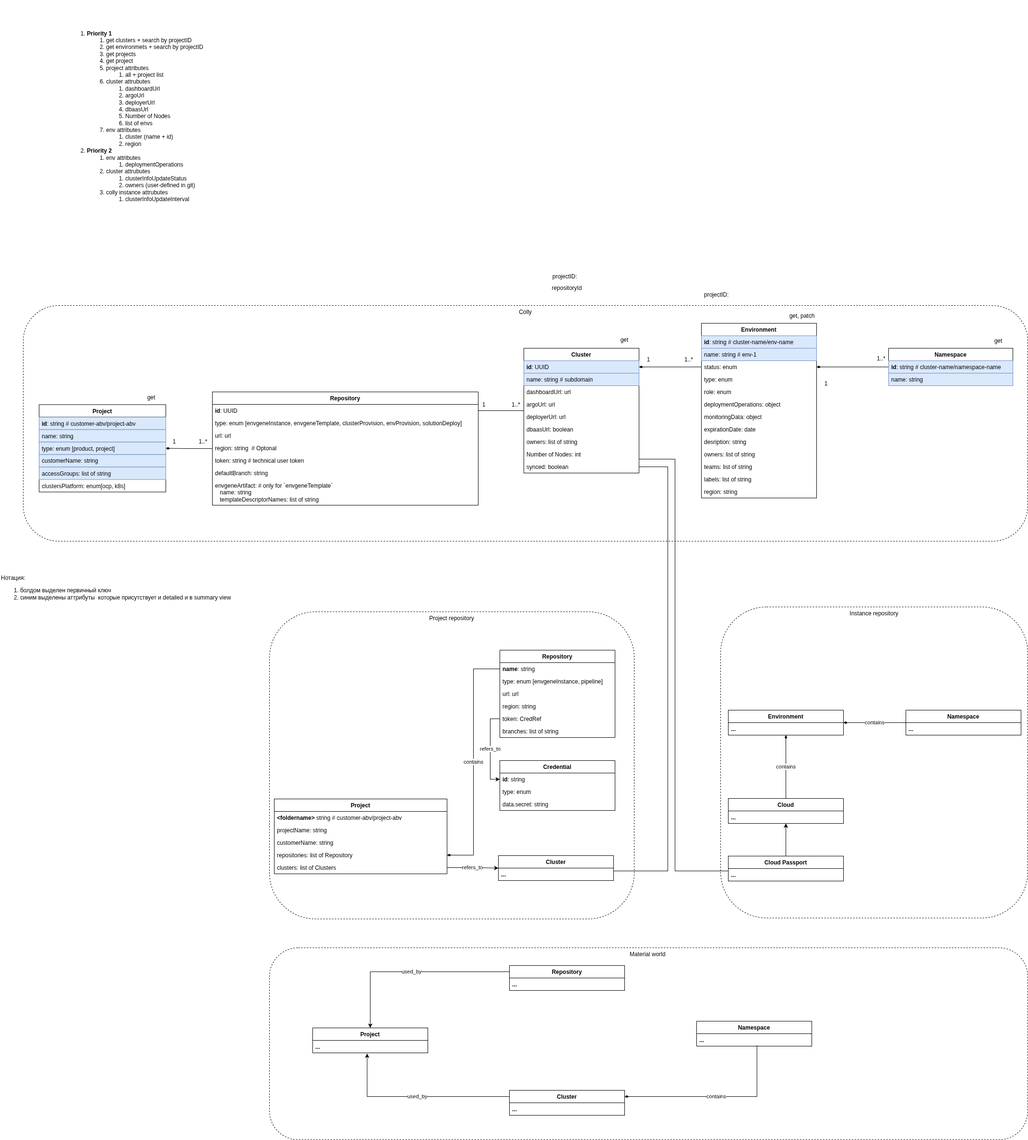
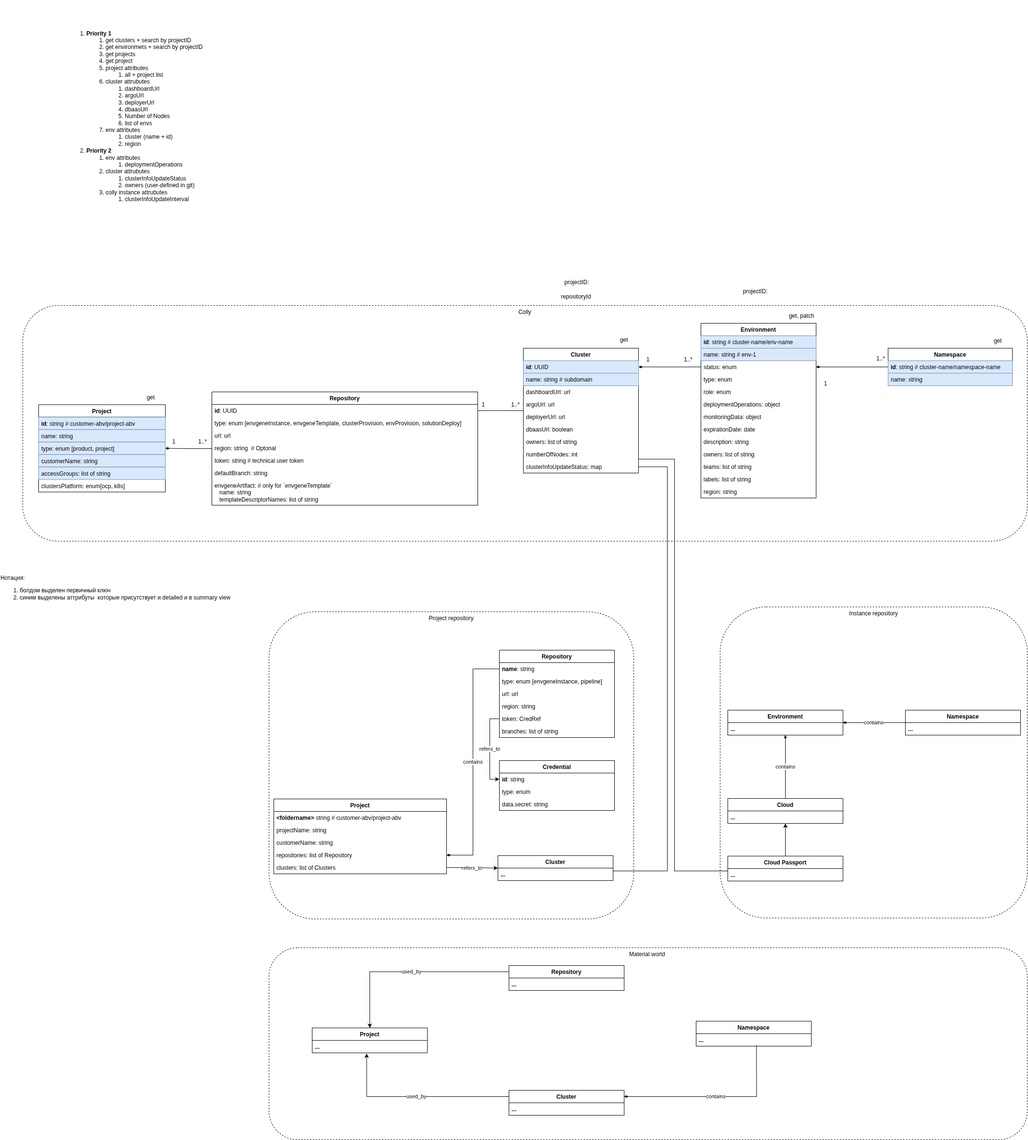
docs: update

diff --git a/docs/analisys/the-customer-requirnments.md b/docs/analisys/the-customer-requirnments.md
@@ -1,6 +1,6 @@
-# API Enhancement of according to the Customer requirements
+# API Enhancement according to the Customer requirements
 
-- [API Enhancement of according to the Customer requirements](#api-enhancement-of-according-to-the-customer-requirements)
+- [API Enhancement according to the Customer requirements](#api-enhancement-according-to-the-customer-requirements)
   - [Description](#description)
   - [Environment](#environment)
   - [Namespace](#namespace)
@@ -13,42 +13,42 @@
 
 This document describes the requirements for Colly from The Customer and the changes they introduce to Colly.
 
-This is not the full list of attributes of these objects, but only those that will be handled by The Customer
+This is not the full list of attributes for these objects, but only those that will be processed as per The Customer’s requirements.
 
 ## Environment
 
-| Colly Attribute                         | Attribute Type                                                     | Description                                                                                                                                      |
-|-----------------------------------------|--------------------------------------------------------------------|--------------------------------------------------------------------------------------------------------------------------------------------------|
-| `name`                                  | string                                                             | Environment name, cannot be changed after creation                                                                                               |
-| `status`                                | enum [`PLANNED`, `FREE`, `IN_USE`, `RESERVED`, `DEPRECATED`]       | Current status of the Environment                                                                                                                |
-| `role`                                  | string (the valid values is configured via a deployment parameter) | Defines the usage role of the Environment within the project. The list is configured via deployment parameter and can be extended.               |
-| `teams`                                 | list of strings                                                    | Teams assigned to the Environment. If there are several teams, their names are separated by commas.                                              |
-| `owners`                                | list of strings                                                    | People responsible for the Environment. If there are several, their names are separated by commas.                                               |
-| `deploymentOperations`                  | list of objects                                                    | History of deployment operations per environment; each entry has `completedAt` and `deploymentItems` with SD `name`, `type`, `mode`, `status`.   |
-| `description`                           | string                                                             | Free-form Environment description                                                                                                                |
-| `namespaces`                            | list of [Namespace](#namespace) objects                            | List of associated namespaces                                                                                                                    |
-| `cluster`                               | [Cluster](#cluster) object                                         | Associated cluster                                                                                                                               |
-| `monitoringData.lastIdpLoginDate`       | string, date-time                                                  | Time of the last successful login to the IDP associated with the Environment                                                                     |
-| `region`                                | string                                                             | Geographical region associated with the Environment. This attribute is user-defined                                                              |
+| Colly Attribute                         | Attribute Type                                                      | Description                                                                                                                                       |
+|-----------------------------------------|---------------------------------------------------------------------|---------------------------------------------------------------------------------------------------------------------------------------------------|
+| `name`                                  | string                                                              | Environment name, cannot be changed after creation                                                                                                |
+| `status`                                | enum [`PLANNED`, `FREE`, `IN_USE`, `RESERVED`, `DEPRECATED`]        | Current status of the Environment                                                                                                                 |
+| `role`                                  | string (the valid values are configured via a deployment parameter) | Defines the usage role of the Environment within the project. The list is configured via a deployment parameter and can be extended.              |
+| `teams`                                 | list of strings                                                     | Teams assigned to the Environment. If there are multiple teams, their names are separated by commas.                                              |
+| `owners`                                | list of strings                                                     | People responsible for the Environment. If there are multiple, their names are separated by commas.                                               |
+| `deploymentOperations`                  | list of objects                                                     | History of deployment operations per environment; each entry has `completedAt` and `deploymentItems` with SD `name`, `type`, `mode`, `status`.    |
+| `description`                           | string                                                              | Free-form Environment description                                                                                                                 |
+| `namespaces`                            | list of [Namespace](#namespace) objects                             | List of associated namespaces                                                                                                                     |
+| `cluster`                               | [Cluster](#cluster) object                                          | Associated cluster                                                                                                                                |
+| `monitoringData.lastIdpLoginDate`       | string, date-time                                                   | Time of the last successful login to the IDP associated with the Environment                                                                      |
+| `region`                                | string                                                              | Geographical region associated with the Environment. This attribute is user-defined                                                               |
 
 ## Namespace
 
-| Colly Attribute                           | Attribute Type | Description                                                                                                                      |
-|-------------------------------------------|----------------|----------------------------------------------------------------------------------------------------------------------------------|
-| `name`                                    | string         | Namespace name                                                                                                                   |
+| Colly Attribute                         | Attribute Type | Description                |
+|-----------------------------------------|----------------|----------------------------|
+| `name`                                  | string         | Namespace name             |
 
 ## Cluster
 
-| Colly Attribute                           | Attribute Type   | Description                                                                                                                                                                                                    |
-|-------------------------------------------|------------------|----------------------------------------------------------------------------------------------------------------------------------------------------------------------------------------------------------------|
-| `name`                                    | string           | Cluster name, cannot be changed after creation                                                                                                                          |
-| `clusterInfoUpdateStatus.lastSuccessAt`   | string           | Time of the last successful update information from the cluster                                                                                                          |
+| Colly Attribute                         | Attribute Type   | Description                                                                                           |
+|-----------------------------------------|------------------|-------------------------------------------------------------------------------------------------------|
+| `name`                                  | string           | Cluster name, cannot be changed after creation                                                        |
+| `clusterInfoUpdateStatus.lastSuccessAt` | string           | Time of the last successful update information from the cluster                                       |
 
 ## Colly instance
 
-| Colly Attribute                           | Attribute Type   | Description                                                   |
-|-------------------------------------------|----------------- |---------------------------------------------------------------|
-| `clusterInfoUpdateInterval`               | string, duration | Period of synchronization with the cluster in ISO 8601 format |
+| Colly Attribute                         | Attribute Type   | Description                                                   |
+|-----------------------------------------|----------------- |---------------------------------------------------------------|
+| `clusterInfoUpdateInterval`             | string, duration | Period of synchronization with the cluster in ISO 8601 format |
 
 ## To discuss
 
@@ -139,6 +139,50 @@ This is not the full list of attributes of these objects, but only those that wi
     3. What is the recommended sync frequency with the cluster?
        1. At least once every 30 minutes.
 
+- [x] `role`
+
+  - Should it be extendable?
+    - Currently, `role` values are extended via deployment parameters
+  - A separate interface to provide the list of roles is needed
+  - Challenge the predefined list of roles
+    - [`Dev`, `QA`, `Project CI`, ~~`SaaS`~~, `Joint CI`, ~~`Other`~~, `Pre Sale`] - set via deployment parameters
+
+- [x] `team` or `teams`? `owner` or `owners`?
+  - `owners`, `teams` are lists
+
+- [x] Each POST in the API will result in a separate commit
+
+- [x] `id` is `uuid`; `name` is `<environment-name>`
+
+- [x] The mediation layer composes the API between the inventory and operational services
+
+- [x] It should be possible to get a list of projects
+  - `/colly/v2/inventory-service/projects`
+    - returns a summary view:
+      - projectId
+      - projectName
+  - `/colly/v2/inventory-service/projects/Id`
+    - returns detail view
+    - The potential problem of a project with two instance repositories will be addressed when it arises
+
+- [x] It should be possible to get a list of clusters
+  - `/colly/v2/inventory-service/clusters`
+    - returns a summary view:
+      - clusterId
+      - projectName
+  - `/colly/v2/inventory-service/projects/Id`
+    - returns detail view
+
+- [x] Add the `deployPostfix` attribute to the Namespace?
+  - No
+
+- [x] Is it correct to say that a single physical business solution instance, consisting of product and project applications, can be modeled with two EnvGene environments - one for product, one for project?
+  - No, there is only one Environment.
+
+- [x] Before creating a cluster, the environment queries Colly to check if there is already a cluster with the same name.
+
+- [x] If Colly discovers the instance repo and receives a cluster that already exists in Colly (by the `name` attribute), another one is created with the same name but a unique ID.
+
 - [ ] What should be the scope of synchronization between Colly and the cluster
   1. All clusters of the instance
   2. Individual clusters
@@ -160,25 +204,12 @@ This is not the full list of attributes of these objects, but only those that wi
     2. Who, when and why lock/unlock
     3. What are the cases from SSP?
 
-- [x] `role`
+- [ ] What does the TheCustomer -> Colly -> EnvGene integration look like when creating an Environment?
 
-  - Should it be extendable?
-    - Currently, `role` are extended via deployment parameters
-  - A separate interface to provide the list of roles is needed
-  - Challenge the predefined list of roles
-    - [`Dev`, `QA`, `Project CI`, ~~`SaaS`~~, `Joint CI`, ~~`Other`~~, `Pre Sale`] - set via deployment parameters
-
-- [x] `team` or `teams`? `owner` or `owners`?
-  - `owners`, `teams` are lists
-
-- [x] Each POST in the API will result in a separate commit
-
-- [x] `id` is `uuid`; `name` is `<environment-name>`
-
-- [x] The mediation layer composes the API between the inventory and operational services
+- [ ] How to aggregate DeploymentOperations across the namespaces of the environment?
 
 - [ ] The SaaS instance of Colly must support:
-  - How do we roll out a new version Colly (canary deployment)?
+  - How do we roll out a new version of Colly (canary deployment)?
   - The mediation layer finds Colly via service mesh
 
 - [ ] It should be possible to get a list of environments per project
@@ -186,50 +217,12 @@ This is not the full list of attributes of these objects, but only those that wi
     - It is necessary to introduce the `projectId` attribute to the environment object
   - The Customer does NOT require information about which `customerName` an environment belongs to, nor obtaining lists of environments by `customerName`
 
-- [x] It should be possible to get a list of projects
-  - `/colly/v2/inventory-service/projects`
-    - returns a summary view:
-      - projectId
-      - projectName
-  - `/colly/v2/inventory-service/projects/Id`
-    - returns detail view
-    - The potential problem of a project with two instance repositories will be addressed when it arises
-
-- [x] It should be possible to get a list of clusters
-  - `/colly/v2/inventory-service/clusters`
-    - returns a summary view:
-      - clusterId
-      - projectName
-  - `/colly/v2/inventory-service/projects/Id`
-    - returns detail view
-
-- [ ] What does the TheCustomer -> Colly -> EnvGene integration look like when creating an Environment?
-
-- [ ] How to aggregate DeploymentOperations across the namespaces of the environment?
-
-- [x] Add the `deployPostfix` attribute to the Namespace?
-  - No
-
-- [ ] Аттрибуты кластера добавить
-
-- [ ] What is a SaaS report?
-
-- [ ] Is it correct to say that a single physical business solution instance, consisting of product and project applications, can be modeled with two EnvGene environments - one for product, one for project?
-  - No, there is only one Environment.
-
-1. SSP перед созданием кластера, энва ходит к Колли, для того что бы проверить есть ли уже с таким именем
-2. Если Колли дискаверит инстанс репо и получает кластер который уже есть в Колли ( по аттрибуту name), то создается еще один с таким же name, но с уникальным ID
-3. No search API
-4. Как организовать связь между инстансным и пайплайновым репозиториями
-5. Егор узнает зачем проект завел себе два темплейт репо
-6. Егор принесет приоритеты
-
 ## To implement
 
 - [x] Change environment attributes
    1. `team`(string) -> `teams`(list of strings)
    2. `owner`(string) -> `owners`(list of strings)
-- [ ]`role`
+- [ ] `role`
   - [x] Add `role` attribute on Environment
   - [ ] Add deployment parameter to extend `role` valid values
   - [x] Remove default value for `role`
@@ -237,14 +230,17 @@ This is not the full list of attributes of these objects, but only those that wi
 - [x] `type`
   - [x] Remove the functionality for auto-generating the `type` attribute. Users should be able to set this value themselves by selecting from a list of allowed values. The list of values should be specified as a deployment parameter.
 - [ ] Include the current Colly API version in the X-API-Version HTTP response header for every API response (Low priority)
-- [ ] Add `lastIdpLoginDate` attribute
-- [ ] Add deployment parameter to `monitoringData` extension
+- [x] Add `lastIdpLoginDate` attribute (via configurable monitoringData)
+- [x] Add deployment parameter for `monitoringData` extension
 - [x] Remove `ticketLinks` attribute
-- [ ] Add `deploymentOperations`
-- [ ] Add `region` attribute
-- [ ] Remove `cleanInstallationDate` attribute
-- [ ] Add `clusterInfoUpdateInterval`, `clusterInfoUpdateStatus.lastSuccessAt`
+- [ ] Add `deploymentOperations` ( will do via ACHKA in 26.1 )
+  - [ ] Remove `cleanInstallationDate`
+- [x] Add `region` attribute
+- [ ] Add `clusterInfoUpdateInterval`, `clusterInfoUpdateStatus.lastSuccessAt` + remove `synced`
 - [ ] Add `accessGroups` to Project
-- [ ] Add `clustersPlatform` to Project
+- [x] Add `clustersPlatform` to Project
 - [ ] Add `envgeneArtifact` to Project
-- [ ] Configure `monitoringData` for En
+- [ ] Create default configuration for `monitoringData`
+- [ ] Support cred macro
+- [ ] `numberOfNodes`
+- [ ] The configuration for `monitoringData` is currently shared across all environments - it needs to be made more granular

diff --git a/docs/analisys/colly-to-envgene-mapping.md b/docs/analisys/colly-to-envgene-mapping.md
@@ -13,18 +13,22 @@ This document details how Colly attributes are persisted within the EnvGene Inst
 
 ## Mapping table
 
-| Colly Object | Colly Attribute    | Attribute Type in Colly                                                                           | EnvGene Repository  | Location in EnvGene                        | Attribute Type in EnvGene | Description                                                                         |
-|--------------|--------------------|---------------------------------------------------------------------------------------------------|---------------------|--------------------------------------------|---------------------------|-------------------------------------------------------------------------------------|
-| Environment  | `owners`           | array of string                                                                                   | instance            | `env_definition.metadata.owners`           | array of string           | Users responsible for the Environment                                               |
-| Environment  | `teams`            | array of string                                                                                   | instance            | `env_definition.metadata.teams`            | array of string           | Teams assigned to the Environment                                                   |
-| Environment  | `status`           | enum [`IN_USE`, `RESERVED`, `FREE`, `MIGRATING`]                                                  | instance            | `env_definition.metadata.status`           | string                    | Current status of the Environment                                                   |
-| Environment  | `expirationDate`   | string (LocalDate "yyyy-MM-dd")                                                                   | instance            | `env_definition.metadata.expirationDate`   | string                    | Date until which Environment is allocated                                           |
-| Environment  | `type`             | enum [`ENVIRONMENT`, `CSE_TOOLSET`, `DESIGN_TIME`, `APP_DEPLOYER`, `INFRASTRUCTURE`, `UNDEFINED`] | instance            | `env_definition.metadata.type`             | string                    | Defines the technical category of the Environment                                   |
-| Environment  | `role`             | string (the valid values is configured via a deployment parameter)                                | instance            | `env_definition.metadata.role`             | string                    | Defines usage role of the Environment                                               |
-| Environment  | `labels`           | array of string                                                                                   | instance            | `env_definition.metadata.labels`           | array of string           | Custom labels for the Environment                                                   |
-| Environment  | `description`      | string                                                                                            | instance            | `env_definition.metadata.description`      | string                    | Free-form Environment description                                                   |
-| Environment  | `region`           | string                                                                                            | instance            | `env_definition.metadata.region`           | string                    | Geographical region associated with the Environment. This attribute is user-defined |
-| Cluster      | `description`      | string                                                                                            | instance            | **TBD**                                    | string                    | Free-form Cluster description                                                       |
+| Colly Object | Colly Attribute    | Attribute Type in Colly                                                                           | EnvGene Repository | Location in EnvGene                      | Description                                                                         |
+|--------------|--------------------|---------------------------------------------------------------------------------------------------|--------------------|------------------------------------------|-------------------------------------------------------------------------------------|
+| Environment  | `id`               | string                                                                                            | instance           | `env_definition.metadata.id`             | Unique identifier of the Environment in Colly and EnvGene, matches the name         |
+| Environment  | `name`             | string                                                                                            | instance           | `env_definition.metadata.id`             | Environment name; same as the identifier                                            |
+| Environment  | `owners`           | array of string                                                                                   | instance           | `env_definition.metadata.owners`         | Users responsible for the environment (Owners in Colly)                             |
+| Environment  | `teams`            | array of string                                                                                   | instance           | `env_definition.metadata.teams`          | List of teams assigned to the environment                                           |
+| Environment  | `status`           | enum [`IN_USE`, `RESERVED`, `FREE`, `MIGRATING`, `DEPRECATED`, `PLANNED`]                         | instance           | `env_definition.metadata.status`         | Current status of the environment: in use, free, reserved, etc                      |
+| Environment  | `expirationDate`   | string (LocalDate "yyyy-MM-dd")                                                                   | instance           | `env_definition.metadata.expirationDate` | Date until which the environment is allocated (expirationDate)                      |
+| Environment  | `type`             | enum [`ENVIRONMENT`, `CSE_TOOLSET`, `DESIGN_TIME`, `APP_DEPLOYER`, `INFRASTRUCTURE`, `UNDEFINED`] | instance           | `env_definition.metadata.type`           | Technical category of the environment; type of environment                          |
+| Environment  | `role`             | string (the list of allowed values is set via deployment parameter)                               | instance           | `env_definition.metadata.role`           | Usage role of the environment (e.g. Dev, QA), set by parameters                     |
+| Environment  | `labels`           | array of string                                                                                   | instance           | `env_definition.metadata.labels`         | User-defined labels/tags for the environment                                        |
+| Environment  | `description`      | string                                                                                            | instance           | `env_definition.metadata.description`    | Free-form environment description                                                   |
+| Environment  | `region`           | string                                                                                            | instance           | `env_definition.metadata.region`         | Geographical region associated with the environment; set by the user                |
+| Cluster      | `name`             | string                                                                                            | TBD                | TBD                                      | Name / Identifier of the cluster (cluster name), unique within the instance context |
+| Cluster      | `id`               | string                                                                                            | TBD                | TBD                                      | Unique identifier of the cluster (same as name); retained for compatibility         |
+| Cluster      | `description`      | string                                                                                            | TBD                | TBD                                      | Free-form cluster description                                                       |
 
 ### `env_definition.yml` example
 
@@ -49,8 +53,6 @@ metadata:
 
 ## To Discuss
 
-- [ ] Where to store the `description` of a Cluster
-
 - [x] Is `ticketLinks` required?
   - The attribute is not needed by users, so it was decided to remove it
 
@@ -63,24 +65,26 @@ metadata:
 - [x] Remove the `deploymentVersion` attribute from the Environment?
   - Yes
 
-- [ ] Using the OpenAPI specification as documentation
-  - How are descriptions and examples added to the OpenAPI spec?
-
 - [x] What is `deploymentStatus`?
   - it is removed
 
 - [x] Do we keep `cleanInstallationDate`? Is it computed based on SD_VERSIONS?
   - it will be removed at [MS2](https://github.com/Netcracker/qubership-colly/issues/153)
 
-- [ ] How do we uniquely identify cluster, environment, and namespace in both services?
+- [x] How do we uniquely identify cluster, environment, and namespace in both services?
 
-- [ ] How do we separate the two services?
+- [x] How do we separate the two services?
   - Both services should return a unified schema for cluster, environment, and namespace, with all fields, but fill in only their own data. For example, for Environment:
     - inventory-service: owners, teams, status, type, role, labels, description, expirationDate
     - operational-service: cleanInstallationDate, monitoringData, deploymentStatus, lastSDDeploymentOperation, lastDeployedSDsByType
-  - Two different models
+  - ~~Two different models~~
+
+- [ ] Where to store the `description` of a Cluster
+
+- [ ] Using the OpenAPI specification as documentation
+  - How are descriptions and examples added to the OpenAPI spec?
 
 ## To Implement
 
-1. Change the formation of the macros `current_env.description` and `current_env.owners` taking into account the metadata section and migration
-2. Extend EnvGene `env_definition.yaml` JSON schema
+- [ ] Change the formation of the macros `current_env.description` and `current_env.owners` taking into account the metadata section and migration
+- [ ] Extend EnvGene `env_definition.yaml` JSON schema

diff --git a/docs/analisys/project-repository.md b/docs/analisys/project-repository.md
@@ -219,12 +219,20 @@ gitlab-token:
 
 ## To discuss
 
-- [ ] Should the Project repository be used as the Maintenance inventory?
-
 - [x] Use case for Colly using its own project repository:
   1. Read all projects and extract the URL, token, and branches from the `envgeneInstance` repositories in order to display the environments from these projects.
 
-- [ ] Need a mapping from environment to project. For example, an environment attribute `project`.
+- [x] Does each project currently have a different `accessGroups`?
+  - Yes, it is different
+
+- [x] Is creating Project post/patch via the Colly API planned?
+  - Not right now, maybe in the future
+
+- [x] `projectId` = customerAbbr + projectAbbr
+
+- [ ] Should the Project repository be used as the Maintenance inventory?
+
+- [x] Need a mapping from environment to project. For example, an environment attribute `project`.
   - Use case: find the DCL pipeline repository by environment
   - Requestor - The Customer
 
@@ -232,24 +240,14 @@ gitlab-token:
 
 - [ ] `pipeline` is too generic, we need to specify the exact type of pipeline
 
-- [ ] accessGroups это список групп пользователей для "кластеров" или Колли?
+- [ ] `accessGroups` is a list of user groups for "clusters" or for Colly?
 
-- [x] Есть ли сейчас для каждого проекта различный `accessGroups`
-  - Да, он различный
+- [ ] `jiraCustomerName` - is it needed?
 
-- [x] Планируется ли создание Project post/patch через Colly API
-  - сейчас нет, возможно потом
-
-- [ ] jiraCustomerName - нужен ли? Егор расскажет
-
-- [ ] envgeneArtifact
+- [ ] `envgeneArtifact`
   - Short term:
-    - в Repository задается руками envgeneArtifact.name в гите
+    - In the Repository, `envgeneArtifact.name` is set manually in Git
   - Long term:
-    - решить может ли Colly задискаверить:
-      - envgeneArtifact.name
-      - envgeneArtifact.templateDescriptorNames
-
-projectId = customerAbriv + projectAbriv
-
-каталог Abriv может появится когда появятся кейсы автоматизации создания проекта
+    - need to decide whether Colly can discover:
+      - `envgeneArtifact.name`
+      - `envgeneArtifact.templateDescriptorNames`
